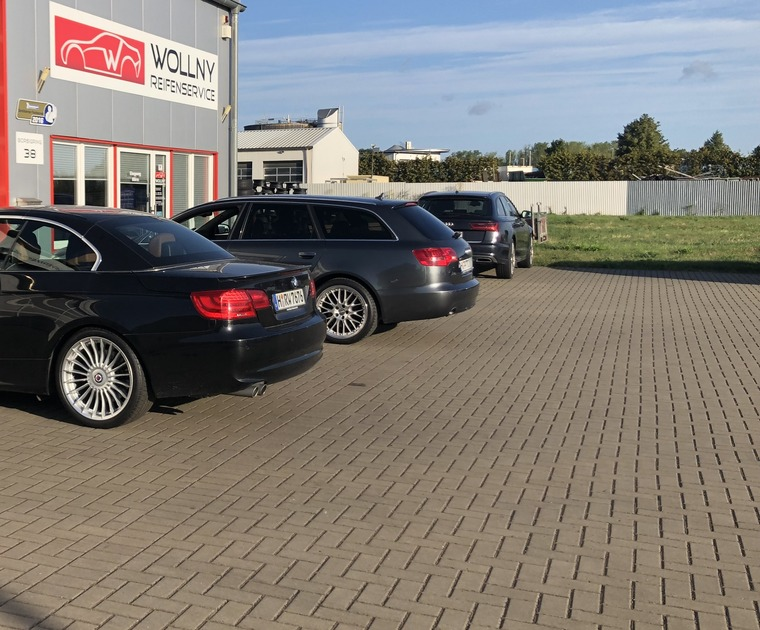
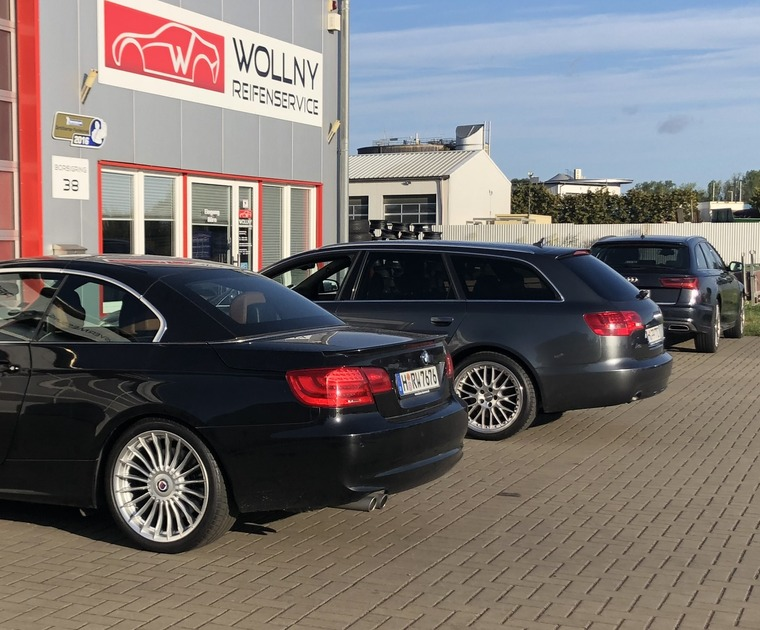
OG image: tighter photo crop (cars fill frame), gradient glow/accent instead of text gradient
Cropped closer so the cars and WOLLNY signage dominate the photo half instead
of empty sky/grass. Kept headline text flat white/red for legibility at
thumbnail sizes; added the gradient richness to a background glow and the
accent bar instead, where it's actually visible at small sizes.

diff --git a/app/[lang]/opengraph-image.tsx b/app/[lang]/opengraph-image.tsx
@@ -56,7 +56,7 @@ export default async function OpengraphImage({
           width: "100%",
           height: "100%",
           display: "flex",
-          background: "#0a0a0b",
+          background: "linear-gradient(160deg, #121214 0%, #0a0a0b 55%)",
           fontFamily: "sans-serif",
           position: "relative",
         }}
@@ -115,8 +115,24 @@ export default async function OpengraphImage({
             flexDirection: "column",
             justifyContent: "space-between",
             padding: "56px 44px 56px 64px",
+            overflow: "hidden",
           }}
         >
+          {/* Brand glow, matches the site's orb/glow language */}
+          <div
+            style={{
+              position: "absolute",
+              left: -160,
+              bottom: -180,
+              width: 460,
+              height: 460,
+              borderRadius: 9999,
+              display: "flex",
+              background:
+                "radial-gradient(circle, rgba(230,0,0,0.35), rgba(153,0,0,0.16) 45%, transparent 72%)",
+            }}
+          />
+
           {/* Logo */}
           <img
             src={logoDataUrl}
@@ -159,7 +175,7 @@ export default async function OpengraphImage({
                 width: 64,
                 height: 5,
                 borderRadius: 999,
-                background: "#E60000",
+                background: "linear-gradient(90deg, #FF6B4A, #E60000 60%, #7A0000)",
               }}
             />
           </div>